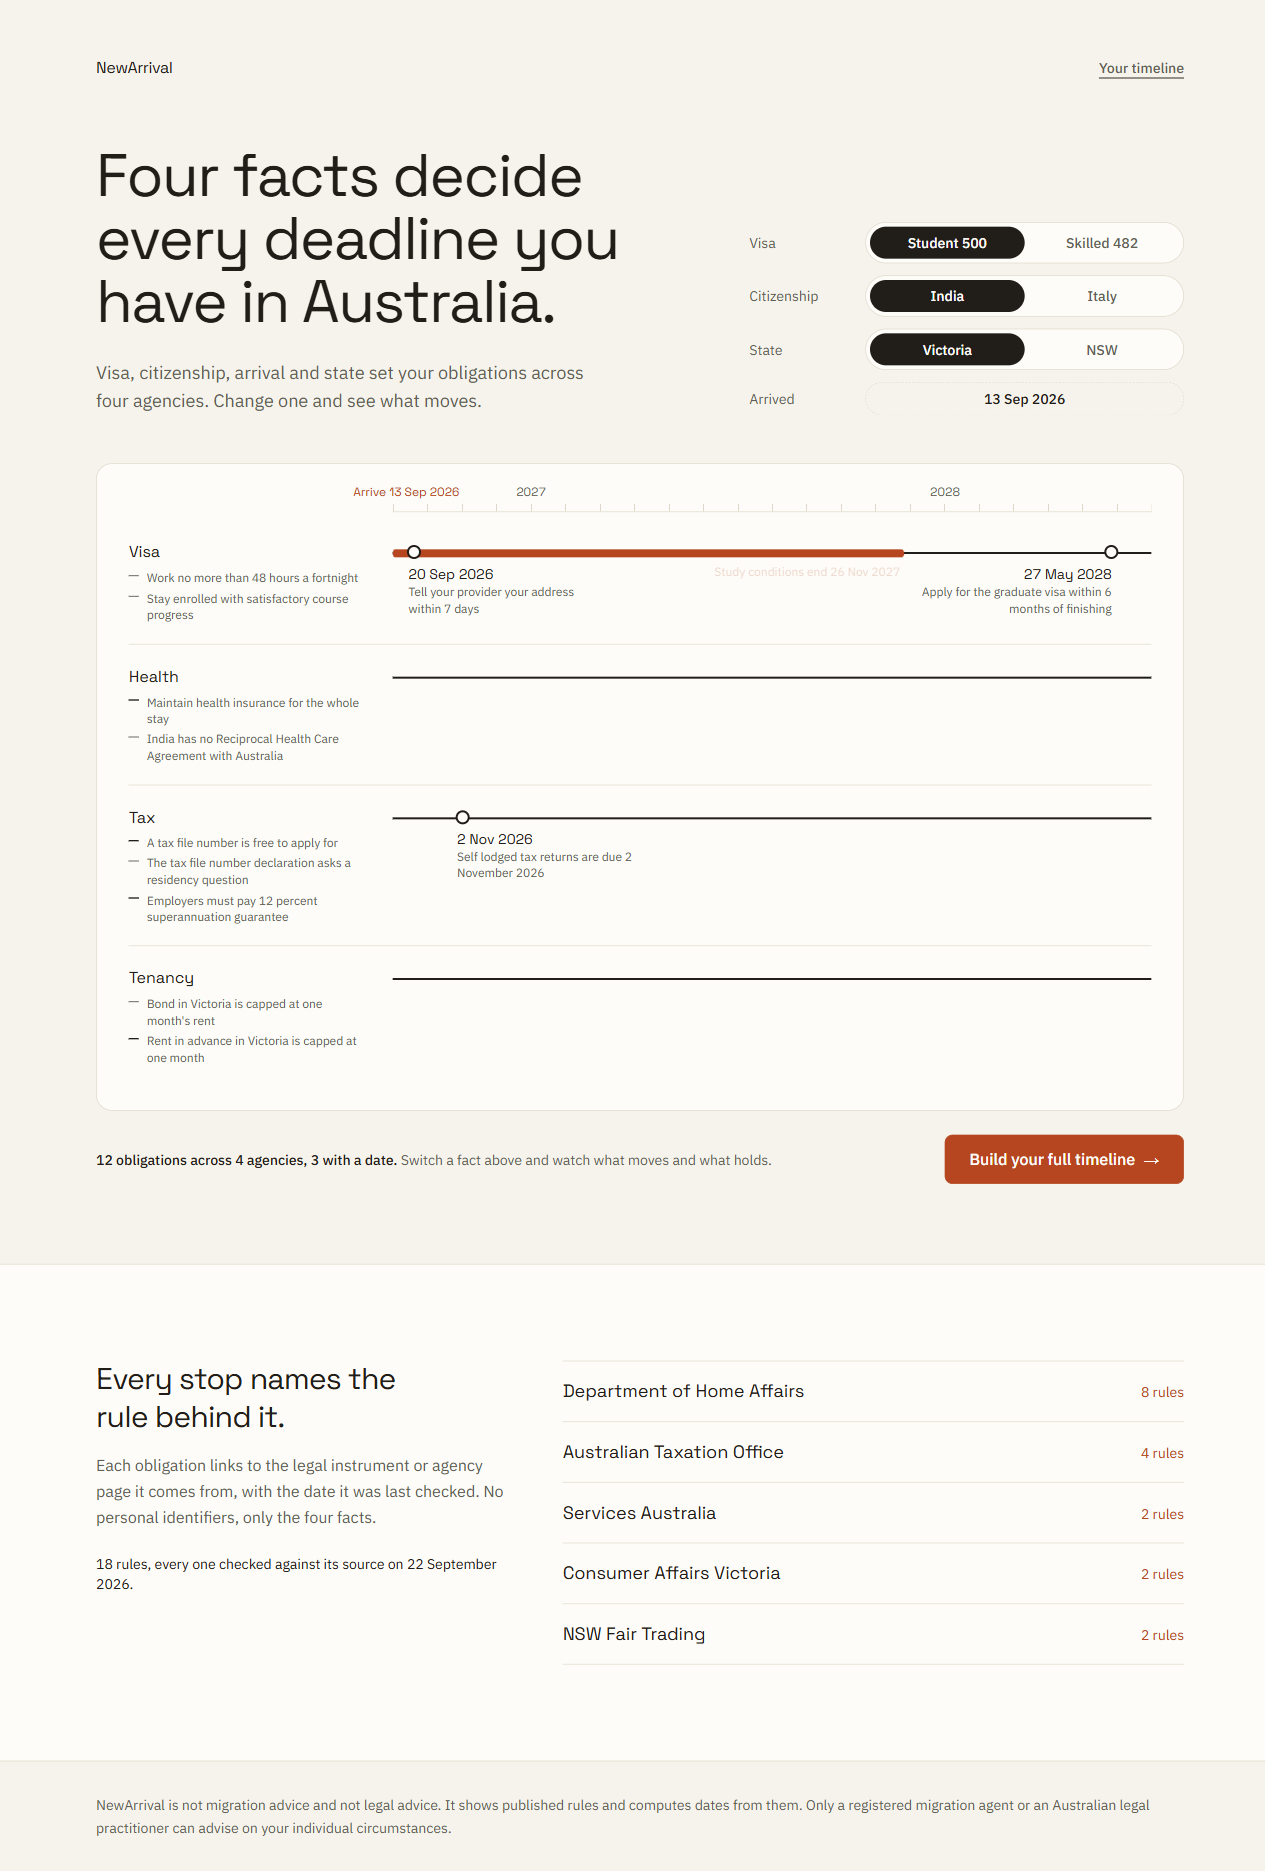
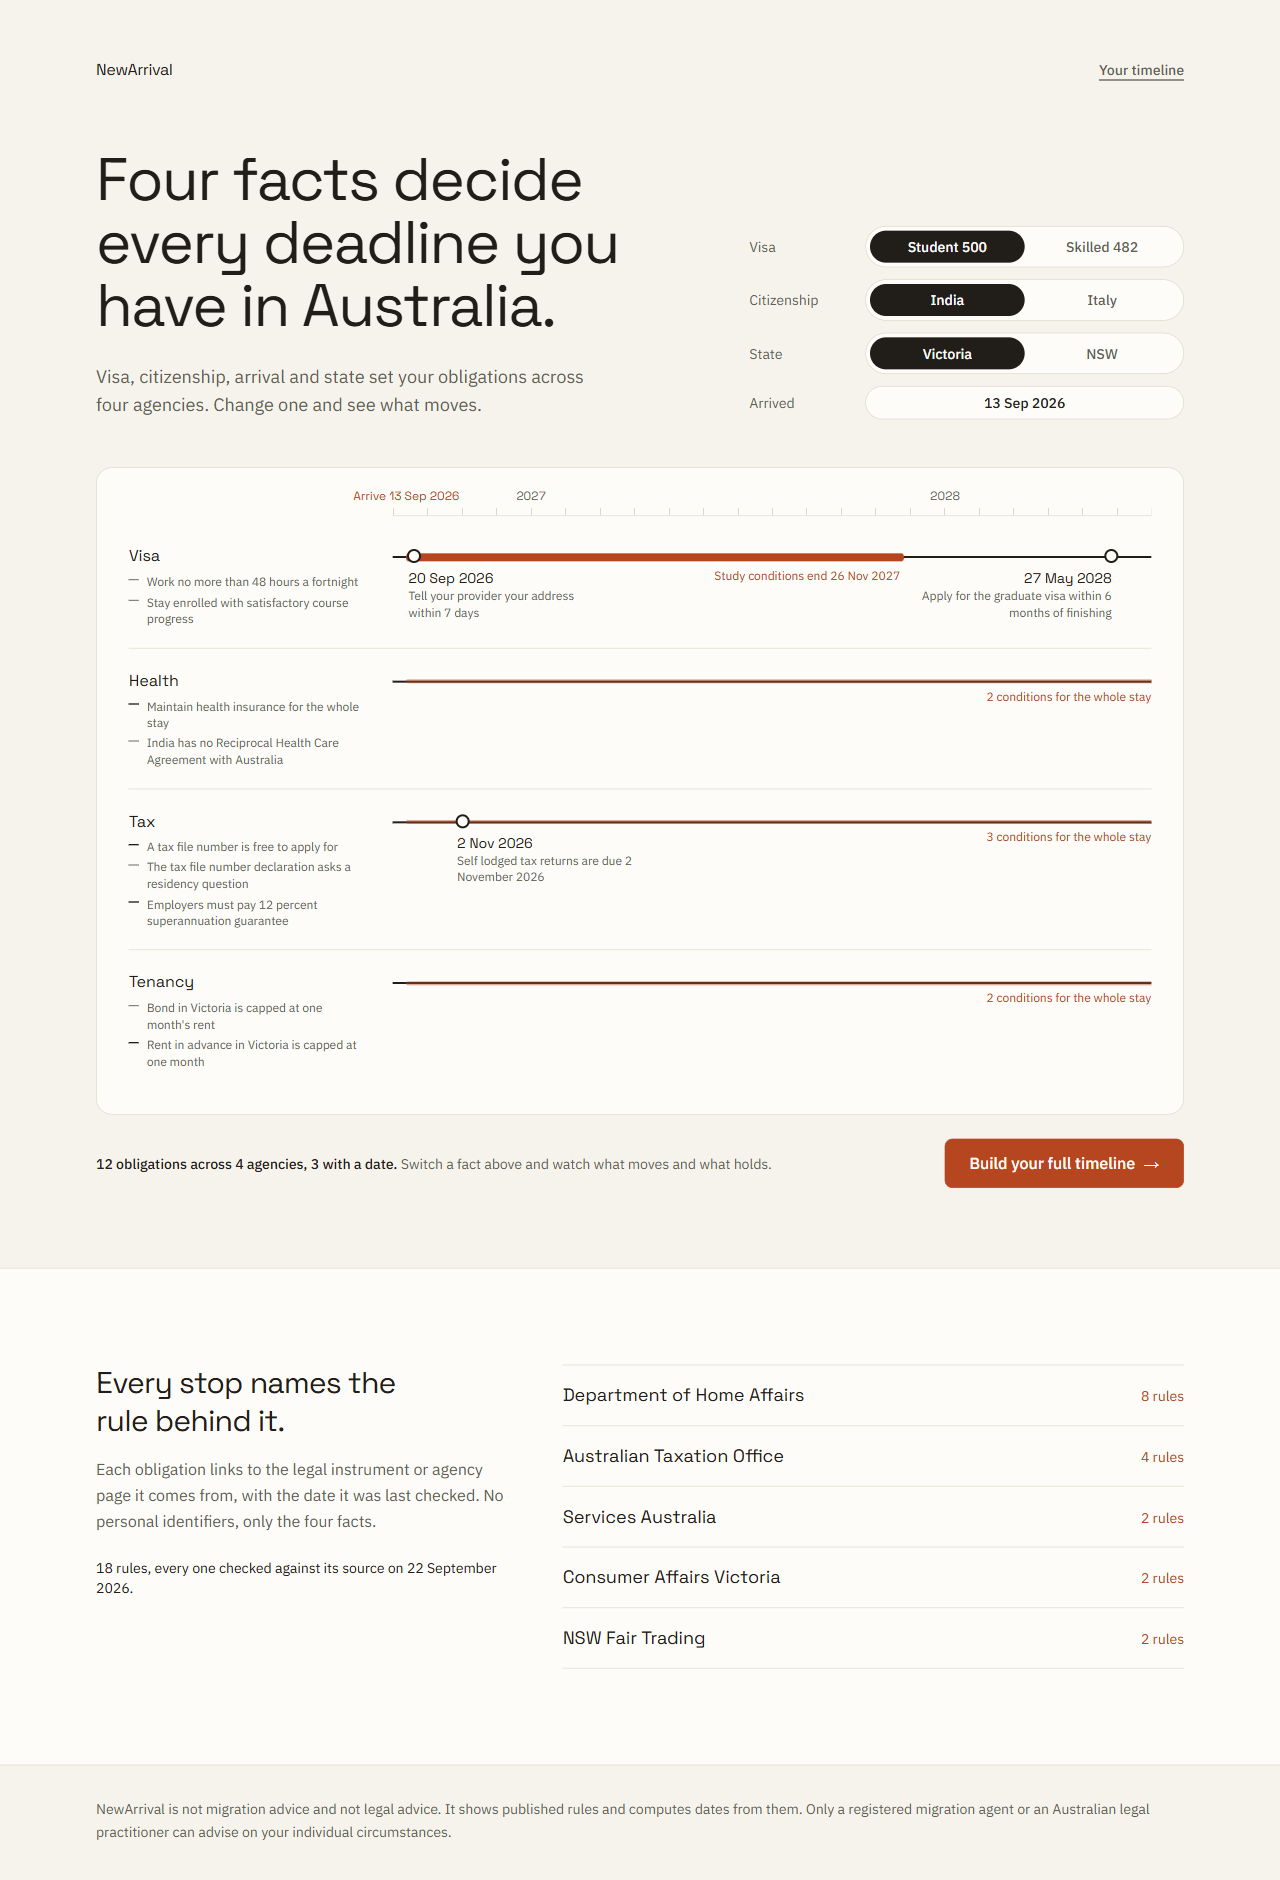
fix(landing): draw standing conditions as spans on every lane, mobile fold, gate evidence

diff --git a/src/components/LiveRoute.tsx b/src/components/LiveRoute.tsx
@@ -39,6 +39,14 @@ function axisT(iso: string): number {
   return (toUtcDays(iso) - start) / (toUtcDays(AXIS_END) - start);
 }
 
+const ARRIVAL_T = axisT(ARRIVAL);
+
+// A span element starts at arrival and runs to the line's end; this is the scaleX that
+// stops it on a given date.
+function spanScale(iso: string): number {
+  return (axisT(iso) - ARRIVAL_T) / (1 - ARRIVAL_T);
+}
+
 function profileOf(facts: Pick<Profile, "subclass" | "citizenship" | "state">): Profile {
   return { ...facts, arrivalDate: ARRIVAL, courseEndDate: COURSE_END };
 }
@@ -117,12 +125,12 @@ export function LiveRoute({ intro }: { intro: ReactNode }) {
 
   return (
     <>
-      <div className="grid gap-10 md:grid-cols-12 md:items-end md:gap-8">
+      <div className="grid gap-7 md:grid-cols-12 md:items-end md:gap-8">
         <div className="md:col-span-7">{intro}</div>
 
-        <div className="flex flex-col gap-3 md:col-span-5">
+        <div className="flex flex-col gap-2.5 md:col-span-5 md:gap-3">
           {FACT_ROWS.map((row) => (
-            <fieldset key={row.key} className="grid grid-cols-[5.25rem_1fr] items-center gap-3 max-[359px]:grid-cols-1 max-[359px]:gap-1.5 md:grid-cols-[6.5rem_1fr]">
+            <fieldset key={row.key} className="grid grid-cols-[5.25rem_1fr] items-center gap-3 max-[359px]:grid-cols-[4.25rem_1fr] max-[359px]:gap-2 md:grid-cols-[6.5rem_1fr]">
               <legend className="float-left font-body text-sm text-[var(--color-muted)]">
                 {row.legend}
               </legend>
@@ -137,7 +145,7 @@ export function LiveRoute({ intro }: { intro: ReactNode }) {
                       onChange={() => switchFact(row.key, option.value, option.label)}
                       className="peer sr-only"
                     />
-                    <span className="affordance block whitespace-nowrap rounded-full px-2 py-1.5 text-center md:px-3 font-body text-sm font-medium text-[var(--color-muted)] hover:text-[var(--color-text)] peer-checked:bg-[var(--color-text)] peer-checked:text-[var(--color-surface)] peer-checked:hover:text-[var(--color-surface)] peer-focus-visible:outline peer-focus-visible:outline-2 peer-focus-visible:outline-offset-2 peer-focus-visible:outline-[var(--color-accent)]">
+                    <span className="affordance block whitespace-nowrap rounded-full px-2 py-1.5 text-center max-[359px]:px-1.5 max-[359px]:text-[13px] md:px-3 font-body text-sm font-medium text-[var(--color-muted)] hover:text-[var(--color-text)] peer-checked:bg-[var(--color-text)] peer-checked:text-[var(--color-surface)] peer-checked:hover:text-[var(--color-surface)] peer-focus-visible:outline peer-focus-visible:outline-2 peer-focus-visible:outline-offset-2 peer-focus-visible:outline-[var(--color-accent)]">
                       {option.label}
                     </span>
                   </label>
@@ -145,16 +153,17 @@ export function LiveRoute({ intro }: { intro: ReactNode }) {
               </div>
             </fieldset>
           ))}
-          <div className="grid grid-cols-[5.25rem_1fr] items-center gap-3 max-[359px]:grid-cols-1 max-[359px]:gap-1.5 md:grid-cols-[6.5rem_1fr]">
+          {/* Mobile shows the arrival date on the diagram's axis instead, keeping the line above the fold. */}
+          <div className="hidden grid-cols-[6.5rem_1fr] items-center gap-3 md:grid">
             <span className="font-body text-sm text-[var(--color-muted)]">Arrived</span>
-            <span className="rounded-full border border-dashed border-[var(--color-border)] px-3 py-1.5 text-center font-body text-sm font-medium text-[var(--color-text)]">
+            <span className="rounded-full border border-[var(--color-border)] bg-[var(--color-surface)] px-3 py-1.5 text-center font-body text-sm font-medium text-[var(--color-text)]">
               {shortDate(ARRIVAL)}
             </span>
           </div>
         </div>
       </div>
 
-      <figure className="route mt-12 rounded-[var(--radius-lg)] border border-[var(--color-border)] bg-[var(--color-surface)] px-5 pb-6 pt-5 md:px-8">
+      <figure className="route mt-8 md:mt-12 rounded-[var(--radius-lg)] border border-[var(--color-border)] bg-[var(--color-surface)] px-5 pb-6 pt-5 md:px-8">
         <figcaption className="sr-only">
           Obligations across visa, health, tax and tenancy, placed on a dated line from arrival.
         </figcaption>
@@ -164,16 +173,17 @@ export function LiveRoute({ intro }: { intro: ReactNode }) {
           <div aria-hidden="true" className="relative h-7">
             <div className="route-axis absolute inset-x-0 bottom-0 h-2" />
             <span
-              className="absolute bottom-3 -translate-x-1/2 font-display text-xs text-[var(--color-accent)]"
-              style={{ left: `${axisT(ARRIVAL) * 100}%` }}
+              className="absolute bottom-3 -ml-1 font-display text-xs text-[var(--color-accent)] md:ml-0 md:-translate-x-1/2"
+              style={{ left: `${ARRIVAL_T * 100}%` }}
             >
-              <span className="md:hidden">Arrive</span>
-              <span className="hidden md:inline">Arrive {shortDate(ARRIVAL)}</span>
+              Arrive {shortDate(ARRIVAL)}
             </span>
             {YEAR_MARKS.map((mark) => (
               <span
                 key={mark}
-                className="absolute bottom-3 -translate-x-1/2 font-display text-xs tabular-nums text-[var(--color-muted)]"
+                className={`absolute bottom-3 -translate-x-1/2 font-display text-xs tabular-nums text-[var(--color-muted)] ${
+                  axisT(mark) < 0.3 ? "hidden md:block" : ""
+                }`}
                 style={{ left: `${axisT(mark) * 100}%` }}
               >
                 {mark.slice(0, 4)}
@@ -193,6 +203,7 @@ export function LiveRoute({ intro }: { intro: ReactNode }) {
               .pop();
             const laneStations = ALL_STATIONS.filter((s) => module.ids.includes(s.module));
             const hasStation = laneStations.some((s) => present.has(s.id));
+            const wholeStay = standing.filter((o) => !o.activeUntil).length;
 
             return (
               <li
@@ -220,10 +231,24 @@ export function LiveRoute({ intro }: { intro: ReactNode }) {
 
                 <div className={`relative ${hasStation ? "h-24 md:h-20" : "h-6"}`}>
                   <div className="route-line absolute inset-x-0 top-3 h-0.5 bg-[var(--color-text)]" />
+                  {/* Both spans start at arrival. Solid: conditions that end on a date.
+                      Thin: conditions that hold for the whole stay, run off the line's end. */}
                   <div
-                    className="route-span absolute left-0 right-0 top-[9px] h-2 rounded-full bg-[var(--color-accent)]"
-                    style={{ "--span": until ? axisT(until) : 0 } as CSSProperties}
+                    className="route-span absolute right-0 top-[10.5px] h-[5px] rounded-l-full bg-[var(--color-accent)] opacity-70"
+                    style={{ left: `${ARRIVAL_T * 100}%`, "--span": wholeStay > 0 ? 1 : 0 } as CSSProperties}
                   />
+                  <div
+                    className="route-span absolute right-0 top-[9px] h-2 rounded-full bg-[var(--color-accent)]"
+                    style={{ left: `${ARRIVAL_T * 100}%`, "--span": until ? spanScale(until) : 0 } as CSSProperties}
+                  />
+                  {wholeStay > 0 && (
+                    <span
+                      key={`${module.label}-${wholeStay}`}
+                      className="route-fade absolute right-0 top-5 hidden font-body text-xs text-[var(--color-accent)] md:block"
+                    >
+                      {wholeStay} {wholeStay === 1 ? "condition" : "conditions"} for the whole stay
+                    </span>
+                  )}
                   {until && (
                     <span
                       className="route-fade absolute top-6 hidden -translate-x-full pr-1 font-body text-xs text-[var(--color-accent)] md:block"

diff --git a/src/app/page.tsx b/src/app/page.tsx
@@ -34,14 +34,14 @@ export default function Home() {
           </a>
         </header>
 
-        <div className="mt-12 md:mt-16">
+        <div className="mt-8 md:mt-16">
           <LiveRoute
             intro={
               <>
                 <h1 className="max-w-[16ch] font-display text-4xl leading-[1.05] tracking-tight text-[var(--color-text)] md:text-6xl">
                   Four facts decide every deadline you have in Australia.
                 </h1>
-                <p className="mt-6 max-w-[46ch] font-body text-lg leading-relaxed text-[var(--color-muted)]">
+                <p className="mt-4 max-w-[46ch] font-body text-lg md:mt-6 leading-relaxed text-[var(--color-muted)]">
                   Visa, citizenship, arrival and state set your obligations across four agencies.
                   Change one and see what moves.
                 </p>
